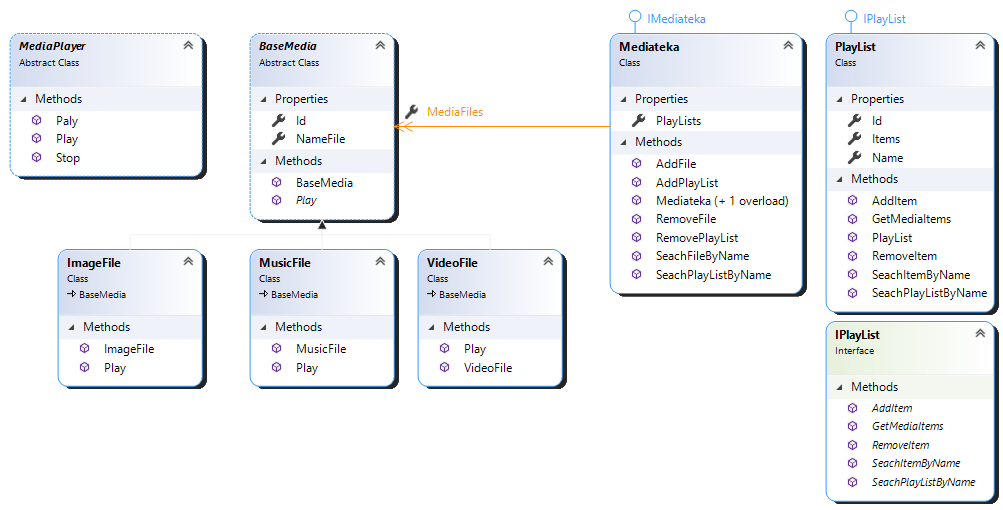
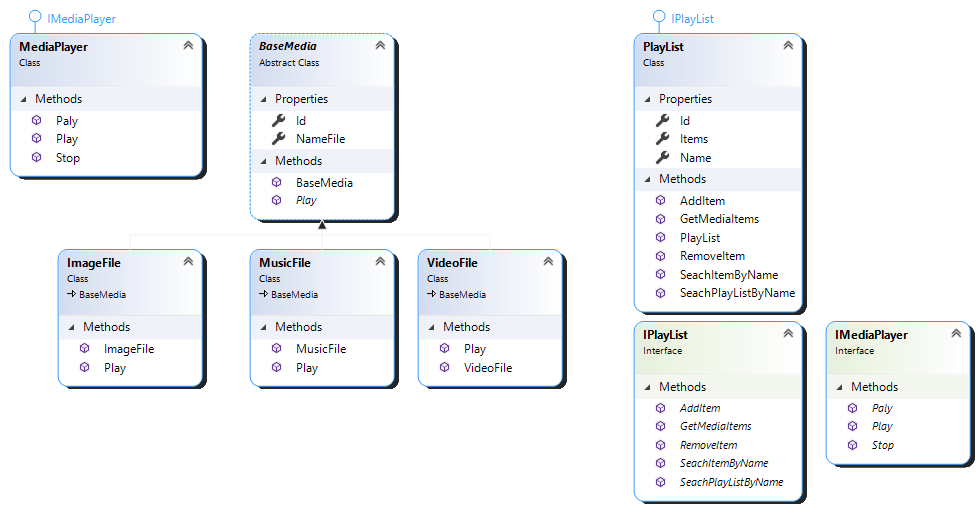
delited mediateka, tested player
can't play one item

diff --git a/mediastorage/Program.cs b/mediastorage/Program.cs
@@ -1,4 +1,6 @@
 using MediaStorage.Classes;
+using MediaStorage.Classes.MediaFile;
+using MediaStorage.Interfaces;
 using System;
 
 namespace MediaStorage
@@ -7,13 +9,25 @@ namespace MediaStorage
     {
         static void Main(string[] args)
         {
-          
 
-            PlayList pl = new PlayList(name: "My play list");
-         
-            Console.WriteLine(pl.Name);
+            BaseMedia file1 = new ImageFile(nameFile: "image_01.jpg");
+            BaseMedia file2 = new MusicFile(nameFile: "01_Rammstein_Muter.mp3");
+            BaseMedia file3 = new MusicFile(nameFile: "03_Rammstein_Duhastmish.mp3");
+            BaseMedia file4 = new MusicFile(nameFile: "04_Rammstein_Ich_Will.mp3");
+            BaseMedia file5 = new VideoFile(nameFile: "House_s1_01.avi");
 
-            Console.ReadLine();
+            IPlayList playList1 = new PlayList(name: "New playlist");
+
+            playList1.AddItem(file4);
+            playList1.AddItem(file3);
+            playList1.AddItem(file2);
+
+            IMediaPlayer player = new MediaPlayer();
+
+            player.Paly(playList1);
+
+            player.Paly(file5);
+
         }
     }
 }

diff --git a/mediastorage/MediaPlayer.cs b/mediastorage/MediaPlayer.cs
@@ -1,21 +1,22 @@
 using MediaStorage.Classes;
+using MediaStorage.Interfaces;
 using System;
 using System.Collections.Generic;
 using System.Text;
 
 namespace MediaStorage
 {
-    abstract class MediaPlayer 
+    public class MediaPlayer : IMediaPlayer
     {
-       public void Paly(IPlayList playList)       
+        public void Paly(IPlayList playList)
         {
             foreach (var item in playList.GetMediaItems())
             {
                 item.Play();
-            }      
+            }
         }
 
-       public void Play(BaseMedia item)
+        public void Play(BaseMedia item)
         {
             item.Play();
         }

diff --git a/mediastorage/Classes/BaseMedia.cs b/mediastorage/Classes/BaseMedia.cs
@@ -9,9 +9,9 @@ namespace MediaStorage.Classes
 
         public string NameFile { get; set; }
 
-        public BaseMedia(Guid id, string nameFile)
+        public BaseMedia(string nameFile)
         {
-            Id = id;
+            Id = new Guid();
             NameFile = nameFile;
         }
 

diff --git a/mediastorage/Classes/MediaFile/ImageFile.cs b/mediastorage/Classes/MediaFile/ImageFile.cs
@@ -6,7 +6,7 @@ namespace MediaStorage.Classes.MediaFile
 {
     public class ImageFile : BaseMedia
     {
-        public ImageFile(Guid id, string nameFile) : base(id, nameFile)
+        public ImageFile(string nameFile) : base(nameFile)
         {
 
         }

diff --git a/mediastorage/Classes/MediaFile/MusicFile.cs b/mediastorage/Classes/MediaFile/MusicFile.cs
@@ -4,7 +4,7 @@ namespace MediaStorage.Classes.MediaFile
 {
     public class MusicFile : BaseMedia
     {
-        public MusicFile(Guid id, string nameFile) : base(id, nameFile)
+        public MusicFile(string nameFile) : base(nameFile)
         {
         }
 

diff --git a/mediastorage/Classes/MediaFile/VideoFile.cs b/mediastorage/Classes/MediaFile/VideoFile.cs
@@ -4,7 +4,7 @@ namespace MediaStorage.Classes.MediaFile
 {
     public class VideoFile : BaseMedia
     {
-        public VideoFile(Guid id, string nameFile) : base(id, nameFile)
+        public VideoFile(string nameFile) : base(nameFile)
         {
         }
 

diff --git a/mediastorage/Interfaces/IMediaPlayer.cs b/mediastorage/Interfaces/IMediaPlayer.cs
@@ -1,0 +1,11 @@
+using MediaStorage.Classes;
+
+namespace MediaStorage.Interfaces
+{
+    interface IMediaPlayer
+    {
+        void Paly(IPlayList playList);
+        void Play(BaseMedia item);
+        void Stop();
+    }
+}
